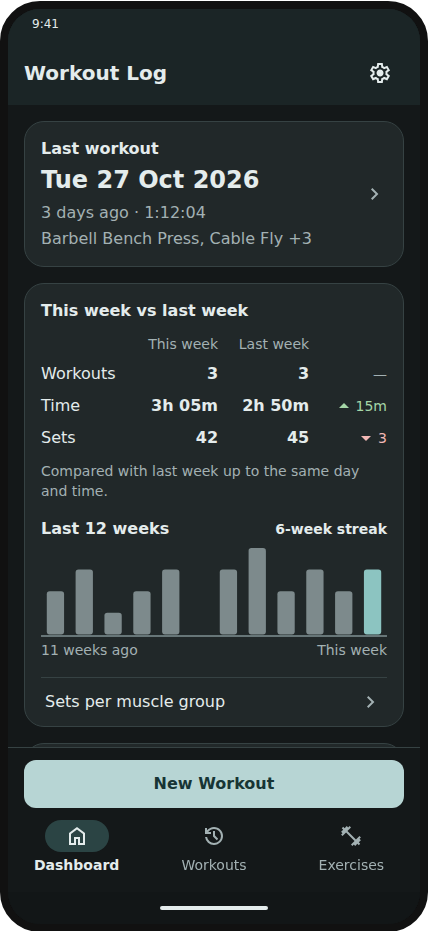
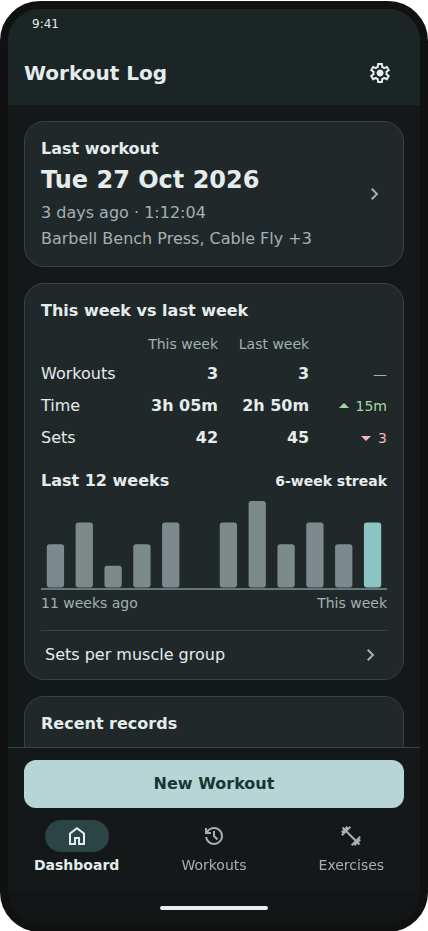
fix(core): compare last week to the end of the same weekday on the Dashboard (#208)
* test(core): a workout later on the same weekday last week is in last week's total

Fails today: LastWeekToDate stops at the current time of day, so a
workout later that day is left out. Covered in the rule, the service
and an E2E scenario.

* fix(core): compare last week to the end of the same weekday on the Dashboard

LastWeekToDate now runs from last Monday 00:00 to the end of the same
weekday by local calendar day. This week still stops at now. Updates the
five tests that asserted the old cut, the note text and the docs.

* docs: retake the Dashboard README screenshots for the new note

Taken from the readme-screenshots artifact of the PR build.

* feat(ui): remove the note under This week vs last week

It took space the card doesn't need.

* docs: retake the Dashboard README screenshots without the note

---------

Changed region(s): [[0.0911, 0.4984, 0.9112, 0.7164], [0.0911, 0.7476, 0.5467, 0.8099], [0.8505, 0.7476, 0.8808, 0.7787]]

diff --git a/src/WorkoutLog.UI/Components/Dashboard/WeekComparison.razor.css b/src/WorkoutLog.UI/Components/Dashboard/WeekComparison.razor.css
@@ -62,9 +62,3 @@ td {
 .same {
     color: var(--color-text-muted);
 }
-
-.note {
-    margin: 0;
-    color: var(--color-text-muted);
-    font-size: var(--font-size-sm);
-}

diff --git a/tests/WorkoutLog.Core.Tests/Domain/Workouts/Consistency/WeekComparisonRuleTests.cs b/tests/WorkoutLog.Core.Tests/Domain/Workouts/Consistency/WeekComparisonRuleTests.cs
@@ -21,24 +21,36 @@ public class WeekComparisonRuleTests
     }
 
     [Test]
-    public void Compare_LastWeekToDateIsLastMondayToTheSameWeekdayAndTime()
+    public void Compare_WorkoutLaterOnTheSameWeekdayLastWeek_IsInLastWeekToDate()
     {
-        var lastMonday = new DateTimeOffset(2026, 10, 19, 0, 0, 0, TimeSpan.Zero);
-        var samePoint = Now.AddDays(-7);
+        var lastWednesday = new DateTimeOffset(2026, 10, 21, 0, 0, 0, TimeSpan.Zero);
 
         var comparison = rule.Compare(
-            [Workout(lastMonday.AddTicks(-1)), Workout(lastMonday), Workout(samePoint.AddHours(-1)), Workout(samePoint.AddTicks(1)), Workout(lastMonday.AddDays(7).AddTicks(-1))],
+            [Workout(lastWednesday.AddHours(17).AddMinutes(59)), Workout(lastWednesday.AddHours(23).AddMinutes(30)), Workout(lastWednesday.AddDays(1))],
             Now, TimeZoneInfo.Utc);
 
         Assert.That(comparison.LastWeekToDate.Workouts, Is.EqualTo(2));
     }
 
     [Test]
-    public void Compare_WorkoutAtTheSamePointLastWeek_CountsLikeOneAtNow()
+    public void Compare_LastWeekToDateIsLastMondayToTheEndOfTheSameWeekday()
+    {
+        var lastMonday = new DateTimeOffset(2026, 10, 19, 0, 0, 0, TimeSpan.Zero);
+        var endOfLastWednesday = lastMonday.AddDays(3);
+
+        var comparison = rule.Compare(
+            [Workout(lastMonday.AddTicks(-1)), Workout(lastMonday), Workout(endOfLastWednesday.AddTicks(-1)), Workout(endOfLastWednesday), Workout(lastMonday.AddDays(7).AddTicks(-1))],
+            Now, TimeZoneInfo.Utc);
+
+        Assert.That(comparison.LastWeekToDate.Workouts, Is.EqualTo(2));
+    }
+
+    [Test]
+    public void Compare_WorkoutAfterNowThisWeek_IsNotCountedButOneAfterTheSameTimeLastWeekIs()
     {
         var comparison = rule.Compare([Workout(Now), Workout(Now.AddTicks(1)), Workout(Now.AddDays(-7)), Workout(Now.AddDays(-7).AddTicks(1))], Now, TimeZoneInfo.Utc);
 
-        Assert.That((comparison.ThisWeek.Workouts, comparison.LastWeekToDate.Workouts), Is.EqualTo((1, 1)));
+        Assert.That((comparison.ThisWeek.Workouts, comparison.LastWeekToDate.Workouts), Is.EqualTo((1, 2)));
     }
 
     [Test]
@@ -73,7 +85,7 @@ public class WeekComparisonRuleTests
     }
 
     [Test]
-    public void Compare_SameWallClockTimesEachWeek_TalliesAreEqualAcrossClockChanges()
+    public void Compare_SameWallClockTimesEachWeek_LastWeekIsEveryTimeUpToTheEndOfTheDayAcrossClockChanges()
     {
         var firstMonday = new DateOnly(2026, 9, 28);
         var weeks = Enumerable.Range(0, 6).Select(week => firstMonday.AddDays(7 * week).ToDateTime(TimeOnly.MinValue)).ToList();
@@ -94,16 +106,22 @@ public class WeekComparisonRuleTests
                     }
 
                     var now = LocalWeek.First(local, zone);
+                    var endOfDay = TimeSpan.FromDays((local - week).Days + 1);
+
                     var comparison = rule.Compare(workouts, now, zone);
 
-                    Assert.That(comparison.LastWeekToDate, Is.EqualTo(comparison.ThisWeek), $"{zone.Id} at {local:yyyy-MM-dd HH:mm}");
+                    Assert.Multiple(() =>
+                    {
+                        Assert.That(comparison.ThisWeek.Workouts, Is.EqualTo(pattern.Count(time => time <= local - week)), $"{zone.Id} this week at {local:yyyy-MM-dd HH:mm}");
+                        Assert.That(comparison.LastWeekToDate.Workouts, Is.EqualTo(pattern.Count(time => time < endOfDay)), $"{zone.Id} last week at {local:yyyy-MM-dd HH:mm}");
+                    });
                 }
             }
         }
     }
 
     [Test]
-    public void Compare_AtMonday0000_BothAreJustThatInstant()
+    public void Compare_AtMonday0000_ThisWeekIsThatInstantAndLastWeekIsAllOfLastMonday()
     {
         var now = new DateTimeOffset(2026, 10, 26, 0, 0, 0, TimeSpan.Zero);
         var lastMonday = now.AddDays(-7);
@@ -112,19 +130,19 @@ public class WeekComparisonRuleTests
             [Workout(lastMonday.AddTicks(-1)), Workout(lastMonday), Workout(lastMonday.AddTicks(1)), Workout(now.AddTicks(-1)), Workout(now)],
             now, TimeZoneInfo.Utc);
 
-        Assert.That((comparison.ThisWeek.Workouts, comparison.LastWeekToDate.Workouts), Is.EqualTo((1, 1)));
+        Assert.That((comparison.ThisWeek.Workouts, comparison.LastWeekToDate.Workouts), Is.EqualTo((1, 2)));
     }
 
     [Test]
-    public void Compare_AfterClocksGoForward_CutsLastWeekAtTheSameWallClockTime()
+    public void Compare_AfterClocksGoForward_CutsLastWeekAtTheEndOfTheSameWallClockDay()
     {
         var zone = ConsistencyZones.ForwardOn25Oct;
         var now = LocalWeek.First(new DateTime(2026, 10, 28, 18, 0, 0), zone);
         var samePoint = LocalWeek.First(new DateTime(2026, 10, 21, 18, 0, 0), zone);
 
-        var comparison = rule.Compare([Workout(samePoint.AddMinutes(-30)), Workout(samePoint), Workout(samePoint.AddMinutes(30))], now, zone);
+        var comparison = rule.Compare([Workout(samePoint.AddMinutes(-30)), Workout(samePoint), Workout(samePoint.AddMinutes(30)), Workout(LocalWeek.First(new DateTime(2026, 10, 21, 23, 30, 0), zone)), Workout(LocalWeek.First(new DateTime(2026, 10, 22, 0, 0, 0), zone))], now, zone);
 
-        Assert.That(comparison.LastWeekToDate.Workouts, Is.EqualTo(2));
+        Assert.That(comparison.LastWeekToDate.Workouts, Is.EqualTo(4));
     }
 
     [Test]

diff --git a/src/WorkoutLog.Core/Domain/Workouts/Consistency/WeekComparisonRule.cs b/src/WorkoutLog.Core/Domain/Workouts/Consistency/WeekComparisonRule.cs
@@ -1,11 +1,10 @@
 namespace WorkoutLog.Core.Domain.Workouts.Consistency;
 
-/// <summary>This week so far against last week up to the same point, with weeks bucketed as <see cref="WeekBarsRule"/> does.</summary>
 internal sealed class WeekComparisonRule
 {
     /// <summary>
     /// Totals of the <paramref name="workouts"/> started from this week's Monday 00:00 to <paramref name="now"/> inclusive, and in
-    /// the week before it up to the same weekday and local time of day inclusive, in <paramref name="zone"/>.
+    /// the week before it up to the end of the same weekday, in <paramref name="zone"/>.
     /// </summary>
     public WeekTallies Compare(IReadOnlyList<WorkoutTally> workouts, DateTimeOffset now, TimeZoneInfo zone)
     {
@@ -16,18 +15,16 @@ internal sealed class WeekComparisonRule
             Tally(LastWeekToDate(workouts, monday, LocalWeek.Local(now, zone), zone)));
     }
 
-    /// <summary>
-    /// Compared by local wall-clock time rather than by instant, so a clock change between the weeks doesn't move the cut by an hour.
-    /// The same point last week is always before <paramref name="monday"/>, so the window is last Monday 00:00 up to it.
-    /// </summary>
+    /// <summary>Compared on the local wall clock, not by instant, so a clock change between the weeks doesn't move the cut.</summary>
     private static IEnumerable<WorkoutTally> LastWeekToDate(IReadOnlyList<WorkoutTally> workouts, DateOnly monday, DateTime localNow, TimeZoneInfo zone)
     {
         var from = monday.AddDays(-7).ToDateTime(TimeOnly.MinValue);
-        var samePoint = localNow.AddDays(-7);
+        var sameDayLastWeek = DateOnly.FromDateTime(localNow).AddDays(-7);
+        var endOfSameDay = sameDayLastWeek.AddDays(1).ToDateTime(TimeOnly.MinValue);
         return workouts.Where(w =>
         {
             var local = LocalWeek.Local(w.StartedAt, zone);
-            return local >= from && local <= samePoint;
+            return local >= from && local < endOfSameDay;
         });
     }
 

diff --git a/tests/WorkoutLog.Core.Tests/Services/ConsistencyServiceTests.cs b/tests/WorkoutLog.Core.Tests/Services/ConsistencyServiceTests.cs
@@ -68,6 +68,18 @@ public class ConsistencyServiceTests
     }
 
     [Test]
+    public async Task GetAsync_WorkoutLaterTodayLastWeek_IsInLastWeekToDate()
+    {
+        var now = new DateTimeOffset(2026, 11, 3, 5, 12, 0, TimeSpan.Zero);
+        UseClock(now, TimeZoneInfo.Utc);
+        repository.Setup(r => r.ListTalliesAsync(DateTimeOffset.MinValue, now)).ReturnsAsync([Workout(new DateTimeOffset(2026, 10, 27, 18, 0, 0, TimeSpan.Zero), 4)]);
+
+        var result = await service.GetAsync();
+
+        Assert.That(result.Comparison.LastWeekToDate.Workouts, Is.EqualTo(1));
+    }
+
+    [Test]
     public async Task GetAsync_StreakCountsWeeksBeforeThe12()
     {
         var weekly = Enumerable.Range(0, 20).Select(weeksAgo => Workout(Now.AddDays(-7 * weeksAgo), 3)).ToList();

diff --git a/tests/WorkoutLog.UI.Tests/Components/Dashboard/WeekComparisonTests.cs b/tests/WorkoutLog.UI.Tests/Components/Dashboard/WeekComparisonTests.cs
@@ -10,7 +10,7 @@ public class WeekComparisonTests : ComponentTestBase
     private static readonly WeekTotals Nothing = new(0, TimeSpan.Zero, 0);
 
     [Test]
-    public void TitleColumnsAndNote_AreShown()
+    public void TitleAndColumns_AreShown()
     {
         var cut = Render(ThisWeek, LastWeekToDate);
 
@@ -18,7 +18,6 @@ public class WeekComparisonTests : ComponentTestBase
         {
             Assert.That(cut.Find("caption").TextContent, Is.EqualTo("This week vs last week"));
             Assert.That(cut.FindAll("thead th").Select(th => th.TextContent), Is.EqualTo(new[] { "This week", "Last week", "Change" }));
-            Assert.That(cut.Find(".note").TextContent, Is.EqualTo("Compared with last week up to the same day and time."));
         });
     }
 

diff --git a/src/WorkoutLog.Core/Services/ConsistencyResult.cs b/src/WorkoutLog.Core/Services/ConsistencyResult.cs
@@ -3,7 +3,7 @@ using WorkoutLog.Core.Domain.Workouts.Consistency;
 namespace WorkoutLog.Core.Services;
 
 /// <summary>Outcome of loading the Consistency card.</summary>
-/// <param name="Comparison">This week so far against last week up to the same point. Zeros when loading failed.</param>
+/// <param name="Comparison">This week so far against last week up to the end of the same weekday. Zeros when loading failed.</param>
 /// <param name="WeekCounts">Workouts per week, oldest first; the last is this week. 12 zeros when loading failed.</param>
 /// <param name="Streak">Consecutive weeks with a workout, ending last week, plus this week once it has one. 0 when loading failed.</param>
 /// <param name="Failed">True when the workouts couldn't be read.</param>

diff --git a/src/WorkoutLog.Core/Domain/Workouts/Consistency/WeekTallies.cs b/src/WorkoutLog.Core/Domain/Workouts/Consistency/WeekTallies.cs
@@ -1,6 +1,6 @@
 namespace WorkoutLog.Core.Domain.Workouts.Consistency;
 
-/// <summary>This week so far against last week up to the same point.</summary>
+/// <summary>This week so far against last week up to the end of the same weekday.</summary>
 /// <param name="ThisWeek">From Monday 00:00 to now.</param>
-/// <param name="LastWeekToDate">From last Monday 00:00 to the same weekday and local time of day as now, last week. At the end of a week, all of last week.</param>
+/// <param name="LastWeekToDate">From last Monday 00:00 to the end of the same weekday as today, last week. At the end of a week, all of last week.</param>
 public sealed record WeekTallies(WeekTally ThisWeek, WeekTally LastWeekToDate);

diff --git a/src/WorkoutLog.Core/Services/IConsistencyService.cs b/src/WorkoutLog.Core/Services/IConsistencyService.cs
@@ -4,7 +4,7 @@ namespace WorkoutLog.Core.Services;
 public interface IConsistencyService
 {
     /// <summary>
-    /// Returns this week so far against last week up to the same point, workouts per week for the last 12 weeks and the weekly streak, with weeks from Monday 00:00
+    /// Returns this week so far against last week up to the end of the same weekday, workouts per week for the last 12 weeks and the weekly streak, with weeks from Monday 00:00
     /// in the phone's time zone. A failed read returns <see cref="ConsistencyResult.FailedRead"/>.
     /// </summary>
     Task<ConsistencyResult> GetAsync();

diff --git a/src/WorkoutLog.UI.Stories/Samples/SampleDashboard.cs b/src/WorkoutLog.UI.Stories/Samples/SampleDashboard.cs
@@ -18,7 +18,6 @@ public static class SampleDashboard
     /// <summary>This week so far: 3 workouts, 3h 05m, 42 sets.</summary>
     public static WeekTotals ThisWeek { get; } = new(3, new TimeSpan(3, 5, 0), 42);
 
-    /// <summary>Last week up to Friday 18:05: 3 workouts, 2h 50m, 45 sets.</summary>
     public static WeekTotals LastWeekToDate { get; } = new(3, new TimeSpan(2, 50, 0), 45);
 
     /// <summary>A week with nothing in it.</summary>

diff --git a/src/WorkoutLog.UI.Stories/Stories/Screens/Dashboard.md b/src/WorkoutLog.UI.Stories/Stories/Screens/Dashboard.md
@@ -19,7 +19,7 @@ Last workout taps through to the workout, a record to its exercise, and the Sets
 
 `DashboardPage` fills `LastWorkout` from `ILastWorkoutService`: the workout with the latest start, its days since in calendar days in the phone's time zone (a start after today shows Today), finish − start as the duration, and its exercises in the workout's order. Back, or Delete, on the [Edit Workout](./?path=/custom/screens-edit-workout-overview) it opens (`/workout/{id}?from=dashboard`) returns to the Dashboard. If the last workout, the counts or the Consistency card fail to load, the Dashboard shows Load failed.
 
-`DashboardPage` fills `Consistency` with a `ConsistencyCard`. Weeks run from Monday 00:00 to Sunday 23:59:59 in the phone's time zone, by start time. This week counts from Monday 00:00 to now. Last week counts from last Monday 00:00 to the same weekday and time of day as now, both ends included, so a Wednesday evening is compared with last Wednesday evening, not with all of last week. The time of day is read on the wall clock, so a clock change between the two weeks doesn't move it; by the end of Sunday it is the whole of last week, the same week the bars show. The 12 bars are this week and the 11 before it. The streak counts consecutive weeks with a workout ending last week, as far back as they go, plus this week once it has one.
+`DashboardPage` fills `Consistency` with a `ConsistencyCard`. Weeks run from Monday 00:00 to Sunday 23:59:59 in the phone's time zone, by start time. This week counts from Monday 00:00 to now. Last week counts from last Monday 00:00 to the end of the same weekday as today, so on a Wednesday morning it is compared with all of last Monday to Wednesday, not with all of last week. The day is read on the wall clock, so a clock change between the two weeks doesn't move it; on Sunday it is the whole of last week, the same week the bars show. The 12 bars are this week and the 11 before it. The streak counts consecutive weeks with a workout ending last week, as far back as they go, plus this week once it has one.
 
 Recent records: `DashboardPage` fills `RecentRecords` from `IRecentRecordsService`, loaded with the rest of the Dashboard. A record is a session whose best beats the exercise's best in every earlier session, the best being the one the Exercises list shows: lift heaviest, tie → most reps; bodyweight heaviest, unweighted being 0 kg, tie → most reps; assisted least assist, tie → most reps; hold longest; carry heaviest, tie → farthest; cardio distance, else duration. A tie isn't a record, and an exercise's first session isn't one. The card shows records from sessions started today or in the 29 days before, in the phone's time zone and not after now: the latest per exercise, newest first, exercises from the same workout A–Z, up to 3. Tapping one opens its [Exercise](./?path=/custom/screens-exercise-overview) page, and back returns to the Dashboard. If the records fail to load, the slot is empty.
 

diff --git a/src/WorkoutLog.UI.Stories/Stories/Components/Dashboard/Dashboard.md b/src/WorkoutLog.UI.Stories/Stories/Components/Dashboard/Dashboard.md
@@ -11,7 +11,7 @@ A card labelled "Last workout": the date and day in bold (e.g. *Tue 27 Oct 2026*
 - `data-testid`: `TestId`, and as a prefix: `{TestId}-date`, `{TestId}-when`, `{TestId}-exercises`, `{TestId}-empty`.
 
 ## `WeekComparison`
-A table titled "This week vs last week" with This week and Last week columns (`ThisWeek` and `LastWeekToDate`) and the rows Workouts, Time (e.g. *3h 05m*, *25m*) and Sets. Each row ends in its change: an increase is the Up `Icon` and the difference in `--color-success`, a decrease the Down `Icon` and the difference in `--color-error`, no change a muted "—". Screen readers hear "up 25m", "down 1" or "no change". Time is compared in whole minutes. Under it, muted: "Compared with last week up to the same day and time.".
+A table titled "This week vs last week" with This week and Last week columns (`ThisWeek` and `LastWeekToDate`) and the rows Workouts, Time (e.g. *3h 05m*, *25m*) and Sets. Each row ends in its change: an increase is the Up `Icon` and the difference in `--color-success`, a decrease the Down `Icon` and the difference in `--color-error`, no change a muted "—". Screen readers hear "up 25m", "down 1" or "no change". Time is compared in whole minutes.
 - `data-testid`: `TestId`, and as a prefix: `{TestId}-workouts`, `{TestId}-time`, `{TestId}-sets`.
 
 ## `WeekBars`

diff --git a/README.md b/README.md
@@ -123,7 +123,7 @@ It's built for one person and one phone: no accounts, no sign-up.
 
 ### Dashboard and data
 
-- The Dashboard shows your last workout, this week so far against last week up to the same day and time, a bar per week for the last 12 weeks and your weekly streak.
+- The Dashboard shows your last workout, this week so far against last week up to the end of the same day, a bar per week for the last 12 weeks and your weekly streak.
 - Recent records on the Dashboard shows the exercises you've beaten your best on in the last 30 days; tap one to open its progress.
 - Sets per muscle group shows each group's strength sets in the last 7 days and which you haven't trained.
 - Export saves every workout, with its notes, to a JSON file you can share.
